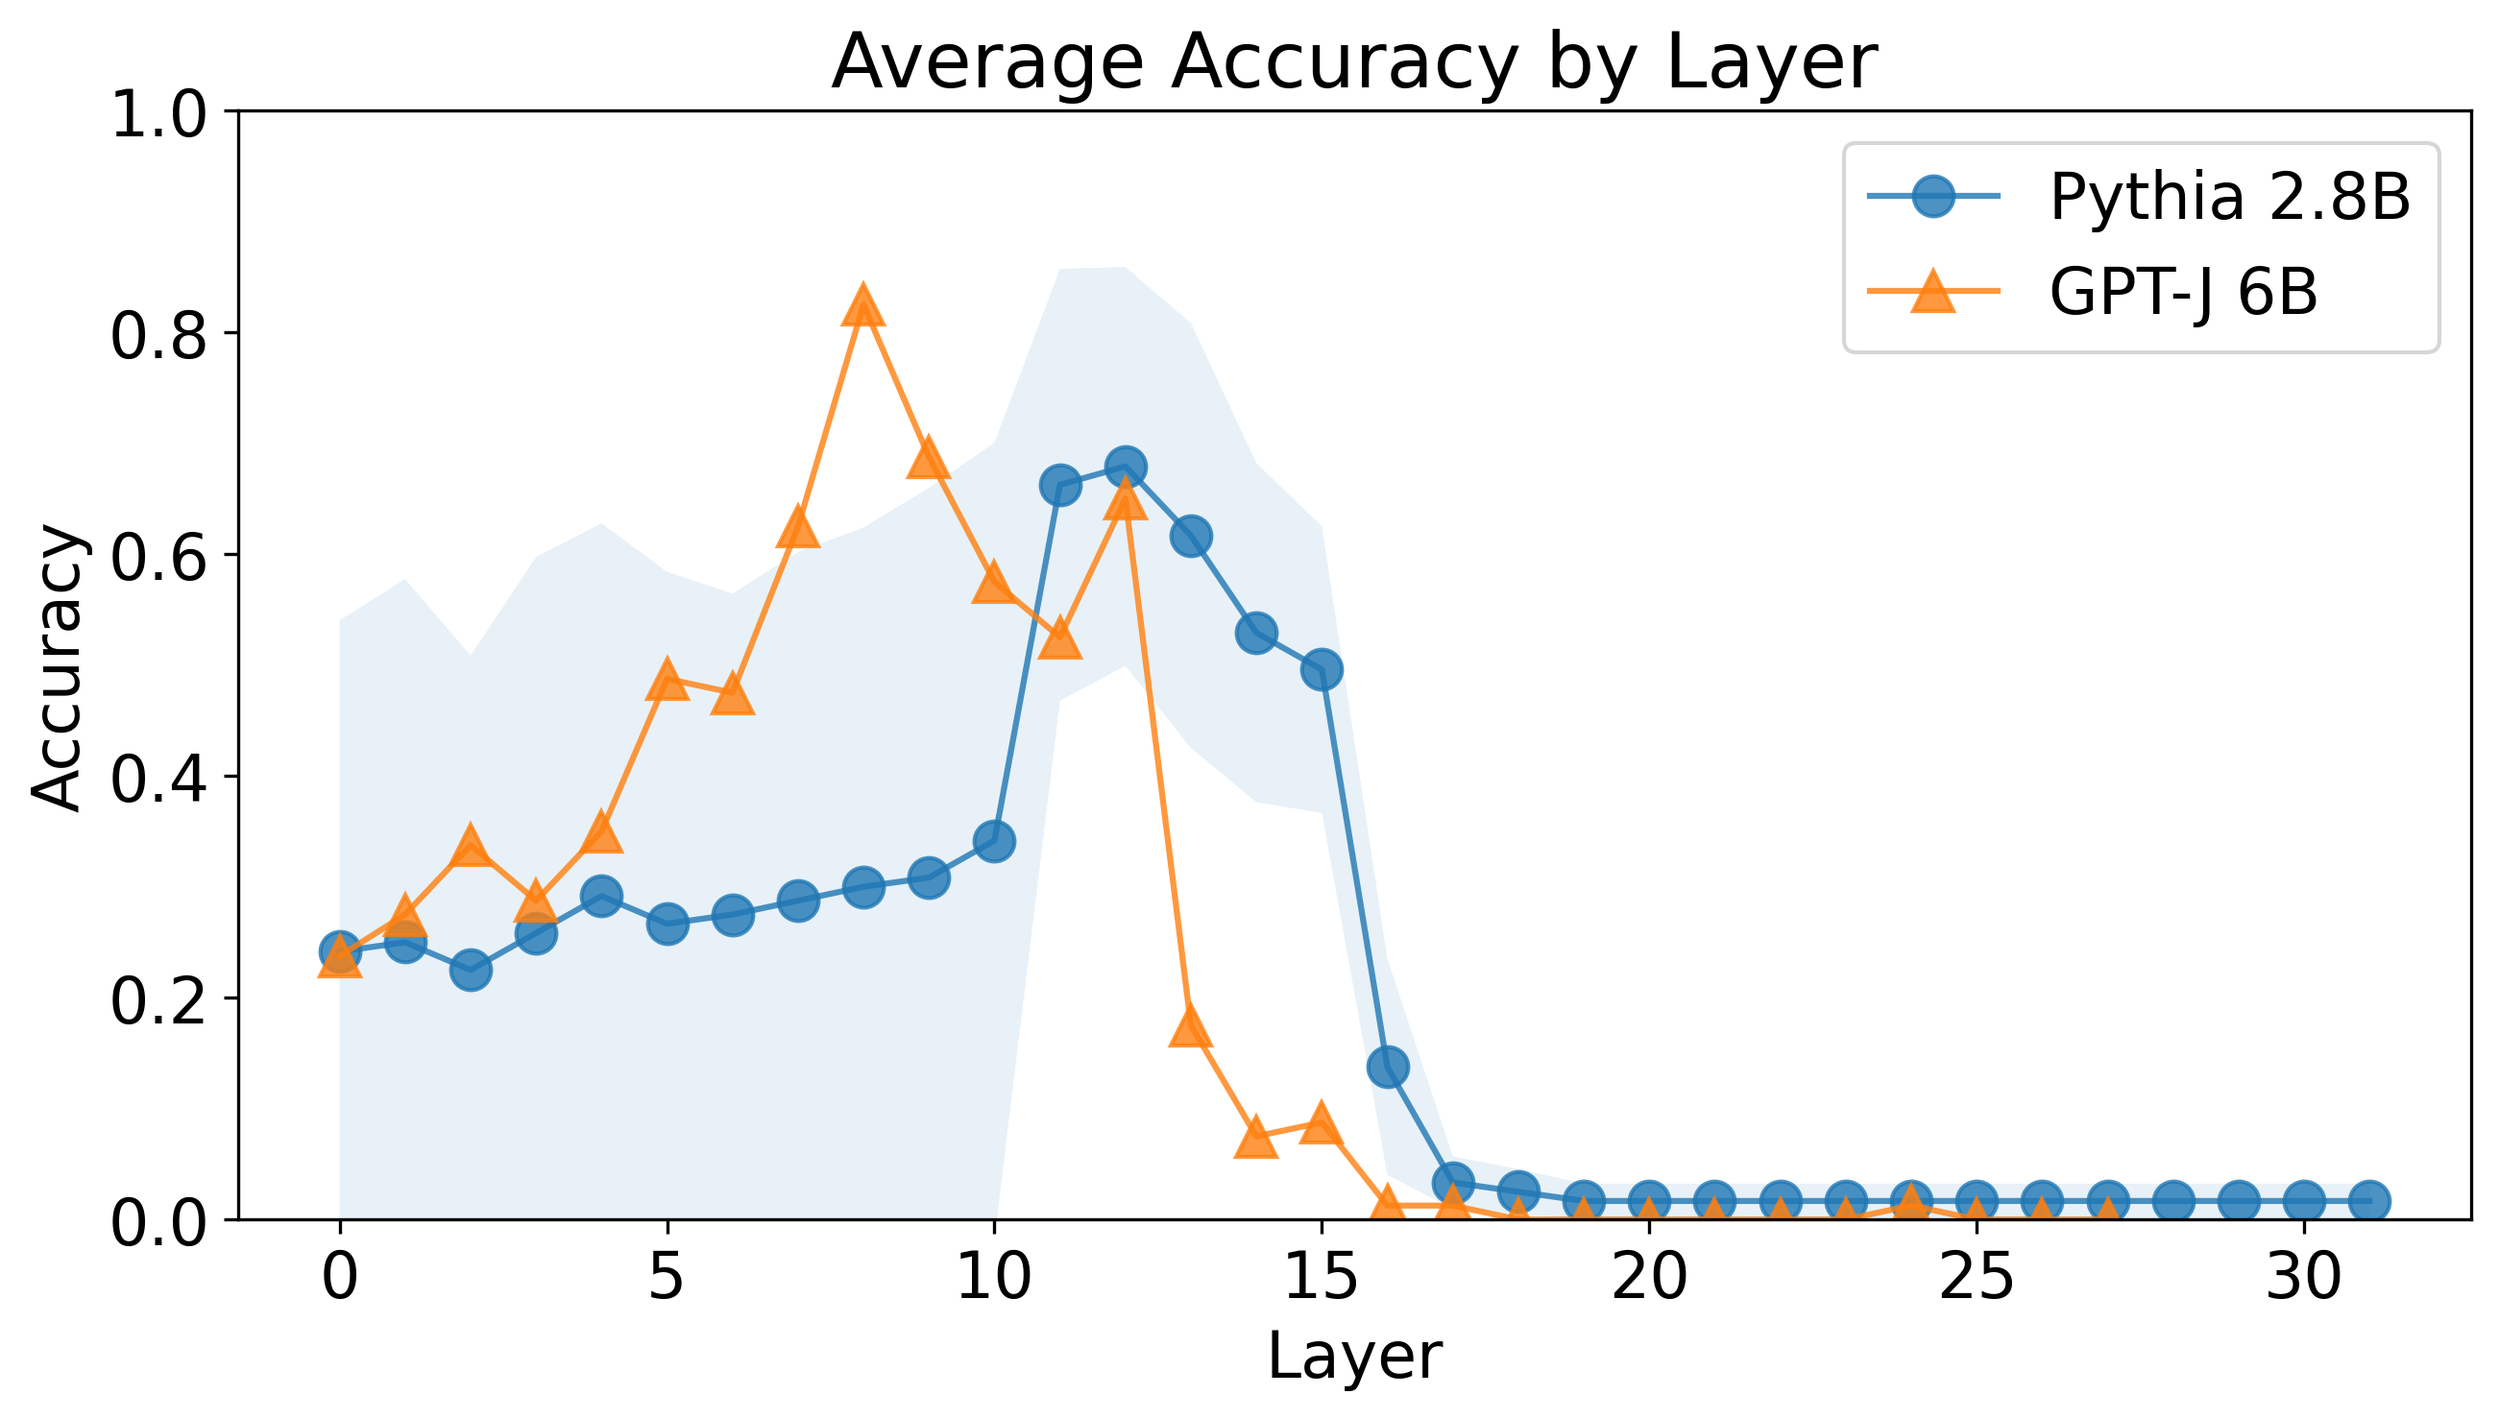
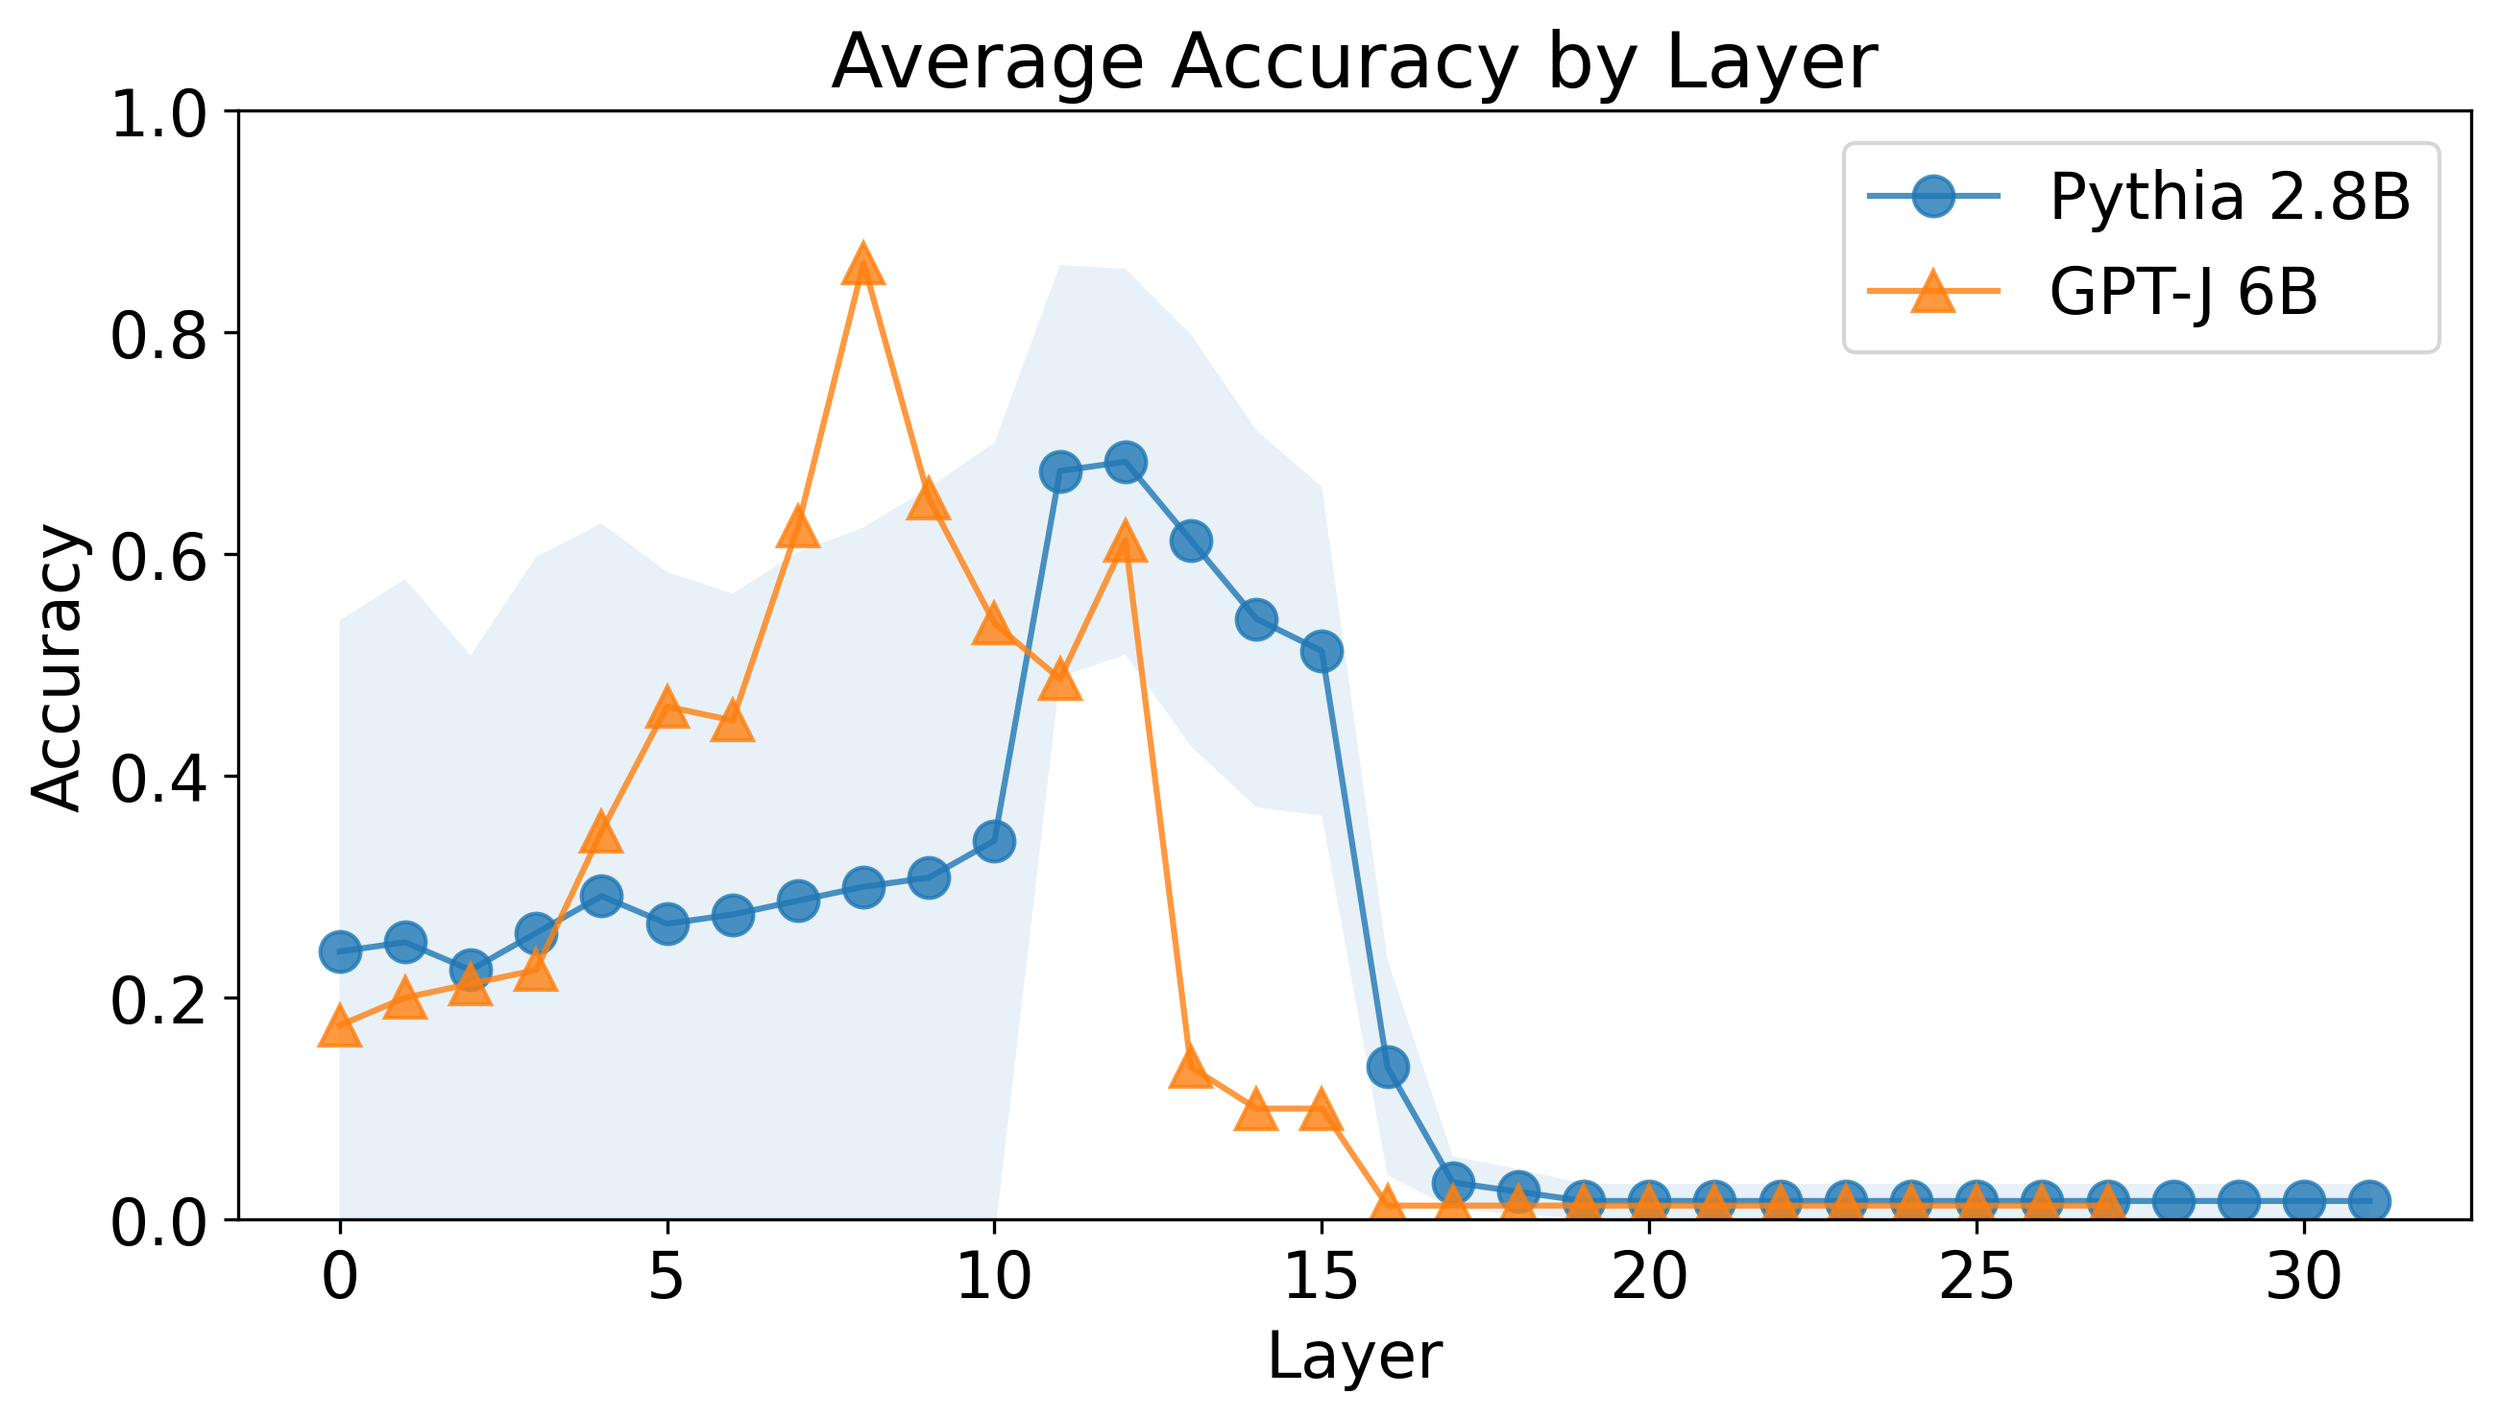
layer+1

diff --git a/outputs/figures/main_experiment_results_table.tex b/outputs/figures/main_experiment_results_table.tex
@@ -19,49 +19,49 @@ Model & Task type & Task name &  &  &  &  &  &  &  &  &  &  &  &  &  \\
 \midrule
     \endhead
     
-\multirow[t]{18}{*}{GPT-J 6B} & \multirow[t]{6}{*}{Algorithmic} & List first & 0.23 & 0.89 & 0.71 & 0.72 & 0.64 & 0.65 & 0.66 & 0.65 & 0.68 & 0.65 & 0.64 & 0.60 & 0.66 \\
- &  & List last & 0.31 & 0.68 & 0.42 & 0.41 & 0.45 & 0.42 & 0.40 & 0.36 & 0.38 & 0.41 & 0.39 & 0.35 & 0.39 \\
- &  & Next letter & 0.20 & 0.70 & 0.76 & 0.81 & 0.84 & 0.81 & 0.86 & 0.84 & 0.78 & 0.82 & 0.86 & 0.82 & 0.79 \\
- &  & Prev letter & 0.06 & 0.00 & 0.15 & 0.15 & 0.16 & 0.14 & 0.11 & 0.12 & 0.16 & 0.17 & 0.17 & 0.11 & 0.16 \\
- &  & To lower & 0.00 & 0.97 & 0.07 & 0.06 & 0.07 & 0.06 & 0.09 & 0.06 & 0.09 & 0.04 & 0.12 & 0.04 & 0.09 \\
- &  & To upper & 0.00 & 0.99 & 0.15 & 0.17 & 0.15 & 0.15 & 0.29 & 0.17 & 0.17 & 0.23 & 0.26 & 0.17 & 0.24 \\
+\multirow[t]{18}{*}{GPT-J 6B} & \multirow[t]{6}{*}{Algorithmic} & List first & 0.23 & 0.89 & 0.71 & 0.66 & 0.61 & 0.64 & 0.64 & 0.66 & 0.62 & 0.68 & 0.66 & 0.65 & 0.62 \\
+ &  & List last & 0.31 & 0.68 & 0.42 & 0.45 & 0.45 & 0.46 & 0.34 & 0.42 & 0.41 & 0.34 & 0.39 & 0.39 & 0.40 \\
+ &  & Next letter & 0.19 & 0.75 & 0.84 & 0.90 & 0.93 & 0.90 & 0.91 & 0.91 & 0.88 & 0.85 & 0.88 & 0.89 & 0.89 \\
+ &  & Prev letter & 0.08 & 0.10 & 0.23 & 0.23 & 0.21 & 0.24 & 0.21 & 0.19 & 0.20 & 0.21 & 0.23 & 0.26 & 0.19 \\
+ &  & To lower & 0.00 & 0.90 & 0.06 & 0.05 & 0.04 & 0.03 & 0.01 & 0.07 & 0.06 & 0.03 & 0.03 & 0.05 & 0.01 \\
+ &  & To upper & 0.00 & 1.00 & 0.17 & 0.05 & 0.04 & 0.07 & 0.10 & 0.07 & 0.11 & 0.07 & 0.00 & 0.04 & 0.06 \\
 \cline{2-16}
- & \multirow[t]{4}{*}{Knowledge} & Country capital & 0.10 & 0.47 & 0.49 & 0.49 & 0.54 & 0.50 & 0.51 & 0.42 & 0.51 & 0.49 & 0.54 & 0.51 & 0.46 \\
- &  & Location continent & 0.02 & 0.61 & 0.45 & 0.46 & 0.38 & 0.42 & 0.44 & 0.40 & 0.40 & 0.51 & 0.36 & 0.47 & 0.51 \\
- &  & Location religion & 0.07 & 0.54 & 0.44 & 0.38 & 0.42 & 0.47 & 0.44 & 0.44 & 0.42 & 0.31 & 0.46 & 0.46 & 0.41 \\
- &  & Person language & 0.06 & 0.78 & 0.78 & 0.78 & 0.78 & 0.76 & 0.80 & 0.75 & 0.78 & 0.81 & 0.78 & 0.80 & 0.74 \\
+ & \multirow[t]{4}{*}{Knowledge} & Country capital & 0.17 & 0.59 & 0.50 & 0.49 & 0.45 & 0.42 & 0.45 & 0.46 & 0.45 & 0.49 & 0.41 & 0.39 & 0.46 \\
+ &  & Location continent & 0.01 & 0.57 & 0.42 & 0.40 & 0.35 & 0.42 & 0.49 & 0.45 & 0.35 & 0.46 & 0.40 & 0.47 & 0.41 \\
+ &  & Location religion & 0.11 & 0.62 & 0.41 & 0.42 & 0.47 & 0.46 & 0.42 & 0.42 & 0.53 & 0.41 & 0.46 & 0.46 & 0.50 \\
+ &  & Person language & 0.00 & 0.75 & 0.68 & 0.66 & 0.71 & 0.70 & 0.69 & 0.68 & 0.66 & 0.68 & 0.68 & 0.68 & 0.66 \\
 \cline{2-16}
- & \multirow[t]{4}{*}{Linguistic} & Antonyms & 0.33 & 0.60 & 0.59 & 0.59 & 0.53 & 0.53 & 0.57 & 0.56 & 0.54 & 0.57 & 0.53 & 0.56 & 0.54 \\
- &  & Plural singular & 0.05 & 0.71 & 0.66 & 0.65 & 0.65 & 0.53 & 0.57 & 0.60 & 0.59 & 0.66 & 0.68 & 0.60 & 0.62 \\
- &  & Present simple gerund & 0.00 & 0.54 & 0.41 & 0.46 & 0.49 & 0.50 & 0.47 & 0.46 & 0.56 & 0.54 & 0.55 & 0.54 & 0.44 \\
- &  & Present simple past simple & 0.02 & 0.65 & 0.60 & 0.68 & 0.61 & 0.65 & 0.64 & 0.62 & 0.65 & 0.69 & 0.65 & 0.59 & 0.71 \\
+ & \multirow[t]{4}{*}{Linguistic} & Antonyms & 0.33 & 0.70 & 0.59 & 0.62 & 0.56 & 0.64 & 0.57 & 0.60 & 0.64 & 0.60 & 0.66 & 0.64 & 0.64 \\
+ &  & Plural singular & 0.03 & 0.62 & 0.60 & 0.53 & 0.61 & 0.59 & 0.61 & 0.55 & 0.59 & 0.53 & 0.64 & 0.44 & 0.64 \\
+ &  & Present simple gerund & 0.00 & 0.50 & 0.45 & 0.53 & 0.46 & 0.57 & 0.41 & 0.44 & 0.45 & 0.46 & 0.47 & 0.50 & 0.41 \\
+ &  & Present simple past simple & 0.00 & 0.50 & 0.54 & 0.60 & 0.42 & 0.50 & 0.45 & 0.55 & 0.57 & 0.65 & 0.53 & 0.56 & 0.49 \\
 \cline{2-16}
- & \multirow[t]{4}{*}{Translation} & En es & 0.19 & 0.26 & 0.31 & 0.33 & 0.34 & 0.36 & 0.36 & 0.34 & 0.33 & 0.31 & 0.34 & 0.36 & 0.35 \\
- &  & En fr & 0.15 & 0.23 & 0.28 & 0.24 & 0.26 & 0.30 & 0.23 & 0.28 & 0.29 & 0.30 & 0.29 & 0.28 & 0.28 \\
- &  & Es en & 0.07 & 0.57 & 0.46 & 0.50 & 0.51 & 0.47 & 0.53 & 0.41 & 0.54 & 0.49 & 0.40 & 0.45 & 0.39 \\
- &  & Fr en & 0.09 & 0.54 & 0.50 & 0.49 & 0.47 & 0.50 & 0.39 & 0.44 & 0.49 & 0.42 & 0.44 & 0.54 & 0.49 \\
+ & \multirow[t]{4}{*}{Translation} & En es & 0.25 & 0.36 & 0.40 & 0.41 & 0.42 & 0.36 & 0.42 & 0.41 & 0.38 & 0.39 & 0.39 & 0.42 & 0.41 \\
+ &  & En fr & 0.23 & 0.28 & 0.40 & 0.36 & 0.34 & 0.39 & 0.36 & 0.40 & 0.39 & 0.36 & 0.41 & 0.40 & 0.38 \\
+ &  & Es en & 0.06 & 0.65 & 0.54 & 0.45 & 0.47 & 0.51 & 0.45 & 0.47 & 0.49 & 0.45 & 0.42 & 0.53 & 0.55 \\
+ &  & Fr en & 0.10 & 0.50 & 0.39 & 0.39 & 0.40 & 0.40 & 0.41 & 0.39 & 0.46 & 0.38 & 0.40 & 0.39 & 0.42 \\
 \cline{1-16} \cline{2-16}
-\multirow[t]{18}{*}{Pythia 2.8B} & \multirow[t]{6}{*}{Algorithmic} & List first & 0.65 & 0.95 & 0.95 & 0.90 & 0.93 & 0.94 & 0.93 & 0.94 & 0.94 & 0.91 & 0.90 & 0.91 & 0.96 \\
- &  & List last & 0.02 & 0.84 & 0.82 & 0.79 & 0.75 & 0.81 & 0.80 & 0.75 & 0.75 & 0.70 & 0.72 & 0.74 & 0.86 \\
- &  & Next letter & 0.41 & 0.62 & 0.57 & 0.62 & 0.61 & 0.61 & 0.68 & 0.65 & 0.60 & 0.62 & 0.65 & 0.64 & 0.60 \\
- &  & Prev letter & 0.05 & 0.00 & 0.06 & 0.06 & 0.06 & 0.05 & 0.06 & 0.06 & 0.06 & 0.06 & 0.05 & 0.05 & 0.05 \\
- &  & To lower & 0.00 & 0.70 & 0.44 & 0.38 & 0.46 & 0.47 & 0.30 & 0.42 & 0.45 & 0.36 & 0.46 & 0.38 & 0.44 \\
- &  & To upper & 0.00 & 0.99 & 0.90 & 0.89 & 0.88 & 0.91 & 0.90 & 0.95 & 0.88 & 0.96 & 0.93 & 0.91 & 0.94 \\
+\multirow[t]{18}{*}{Pythia 2.8B} & \multirow[t]{6}{*}{Algorithmic} & List first & 0.65 & 0.95 & 0.95 & 0.93 & 0.91 & 0.91 & 0.94 & 0.91 & 0.94 & 0.89 & 0.89 & 0.93 & 0.93 \\
+ &  & List last & 0.02 & 0.84 & 0.82 & 0.74 & 0.81 & 0.82 & 0.75 & 0.79 & 0.71 & 0.74 & 0.71 & 0.85 & 0.79 \\
+ &  & Next letter & 0.53 & 0.71 & 0.68 & 0.70 & 0.71 & 0.66 & 0.76 & 0.71 & 0.68 & 0.66 & 0.69 & 0.70 & 0.72 \\
+ &  & Prev letter & 0.00 & 0.06 & 0.10 & 0.09 & 0.11 & 0.11 & 0.09 & 0.07 & 0.10 & 0.09 & 0.10 & 0.10 & 0.10 \\
+ &  & To lower & 0.00 & 0.79 & 0.53 & 0.40 & 0.50 & 0.56 & 0.55 & 0.41 & 0.44 & 0.44 & 0.50 & 0.57 & 0.42 \\
+ &  & To upper & 0.00 & 0.99 & 0.86 & 0.91 & 0.90 & 0.97 & 0.91 & 0.99 & 0.90 & 0.94 & 0.94 & 0.86 & 0.94 \\
 \cline{2-16}
- & \multirow[t]{4}{*}{Knowledge} & Country capital & 0.11 & 0.53 & 0.49 & 0.44 & 0.49 & 0.45 & 0.47 & 0.40 & 0.51 & 0.46 & 0.50 & 0.53 & 0.47 \\
- &  & Location continent & 0.02 & 0.57 & 0.49 & 0.44 & 0.46 & 0.47 & 0.50 & 0.47 & 0.47 & 0.50 & 0.45 & 0.47 & 0.47 \\
- &  & Location religion & 0.05 & 0.34 & 0.33 & 0.38 & 0.38 & 0.40 & 0.42 & 0.41 & 0.45 & 0.39 & 0.41 & 0.39 & 0.44 \\
- &  & Person language & 0.03 & 0.65 & 0.66 & 0.65 & 0.51 & 0.55 & 0.61 & 0.59 & 0.57 & 0.56 & 0.59 & 0.57 & 0.56 \\
+ & \multirow[t]{4}{*}{Knowledge} & Country capital & 0.14 & 0.44 & 0.53 & 0.49 & 0.44 & 0.47 & 0.47 & 0.46 & 0.42 & 0.51 & 0.49 & 0.41 & 0.47 \\
+ &  & Location continent & 0.01 & 0.55 & 0.42 & 0.47 & 0.47 & 0.44 & 0.57 & 0.54 & 0.39 & 0.56 & 0.46 & 0.51 & 0.50 \\
+ &  & Location religion & 0.12 & 0.40 & 0.31 & 0.38 & 0.41 & 0.38 & 0.34 & 0.34 & 0.41 & 0.29 & 0.36 & 0.33 & 0.36 \\
+ &  & Person language & 0.00 & 0.55 & 0.57 & 0.64 & 0.56 & 0.53 & 0.59 & 0.50 & 0.56 & 0.57 & 0.56 & 0.54 & 0.50 \\
 \cline{2-16}
- & \multirow[t]{4}{*}{Linguistic} & Antonyms & 0.40 & 0.44 & 0.36 & 0.36 & 0.38 & 0.36 & 0.36 & 0.35 & 0.40 & 0.38 & 0.40 & 0.38 & 0.39 \\
- &  & Plural singular & 0.07 & 0.45 & 0.46 & 0.47 & 0.47 & 0.53 & 0.51 & 0.51 & 0.56 & 0.45 & 0.42 & 0.60 & 0.53 \\
- &  & Present simple gerund & 0.00 & 0.57 & 0.42 & 0.42 & 0.34 & 0.39 & 0.44 & 0.44 & 0.41 & 0.34 & 0.39 & 0.34 & 0.36 \\
- &  & Present simple past simple & 0.01 & 0.64 & 0.57 & 0.57 & 0.59 & 0.56 & 0.56 & 0.51 & 0.54 & 0.57 & 0.57 & 0.56 & 0.56 \\
+ & \multirow[t]{4}{*}{Linguistic} & Antonyms & 0.44 & 0.59 & 0.55 & 0.53 & 0.46 & 0.55 & 0.46 & 0.49 & 0.51 & 0.50 & 0.47 & 0.49 & 0.51 \\
+ &  & Plural singular & 0.06 & 0.56 & 0.54 & 0.47 & 0.59 & 0.54 & 0.51 & 0.57 & 0.50 & 0.51 & 0.51 & 0.45 & 0.50 \\
+ &  & Present simple gerund & 0.00 & 0.61 & 0.36 & 0.31 & 0.34 & 0.31 & 0.39 & 0.35 & 0.33 & 0.34 & 0.30 & 0.39 & 0.30 \\
+ &  & Present simple past simple & 0.02 & 0.68 & 0.55 & 0.59 & 0.65 & 0.61 & 0.59 & 0.54 & 0.61 & 0.54 & 0.47 & 0.57 & 0.60 \\
 \cline{2-16}
- & \multirow[t]{4}{*}{Translation} & En es & 0.07 & 0.31 & 0.26 & 0.25 & 0.26 & 0.28 & 0.26 & 0.28 & 0.28 & 0.28 & 0.28 & 0.28 & 0.28 \\
- &  & En fr & 0.15 & 0.30 & 0.29 & 0.33 & 0.30 & 0.30 & 0.33 & 0.30 & 0.34 & 0.31 & 0.34 & 0.29 & 0.31 \\
- &  & Es en & 0.11 & 0.54 & 0.39 & 0.46 & 0.39 & 0.51 & 0.49 & 0.45 & 0.45 & 0.46 & 0.50 & 0.47 & 0.45 \\
- &  & Fr en & 0.14 & 0.54 & 0.45 & 0.49 & 0.51 & 0.50 & 0.45 & 0.38 & 0.31 & 0.39 & 0.45 & 0.40 & 0.44 \\
+ & \multirow[t]{4}{*}{Translation} & En es & 0.06 & 0.34 & 0.26 & 0.26 & 0.28 & 0.29 & 0.28 & 0.29 & 0.25 & 0.28 & 0.25 & 0.26 & 0.26 \\
+ &  & En fr & 0.15 & 0.35 & 0.33 & 0.33 & 0.29 & 0.30 & 0.33 & 0.31 & 0.33 & 0.26 & 0.33 & 0.31 & 0.34 \\
+ &  & Es en & 0.10 & 0.57 & 0.39 & 0.35 & 0.35 & 0.34 & 0.31 & 0.33 & 0.33 & 0.28 & 0.34 & 0.33 & 0.31 \\
+ &  & Fr en & 0.21 & 0.54 & 0.35 & 0.39 & 0.40 & 0.40 & 0.30 & 0.36 & 0.40 & 0.42 & 0.46 & 0.41 & 0.45 \\
 \cline{1-16} \cline{2-16}
 \bottomrule
 \end{longtable}

diff --git a/outputs/figures/top_tokens_table.tex b/outputs/figures/top_tokens_table.tex
@@ -2,15 +2,15 @@
 \toprule
  &  & 0 \\
 \midrule
-\multirow[t]{4}{*}{pythia_2.8B} & algorithmic_prev_letter & pril, ndef, ibase, amsfonts, amsbsy, aeda, OOST, Syrac, lemn, tocol, omitempty, amssymb, BytePtrFromString, erl, obuf, advertis, answ, errnoErr, ODULE, isel \\
- & translation_fr_en & PLIED, OOST, ovember, CURI, REEK, Accessor, fileID, THEORY, RAF, plural, HECK, prehens, aturday, perty, SAME, PARTICULAR, aeda, qc, omitempty, eft \\
- & linguistic_present_simple_gerund & PLIED, RAF, Accessor, ovember, OOST, perty, YING, CURI, AtA, fileID, CLUDING, rapeutics, HECK, aturday, tact, qc, SEQU, noc, kees, tomat \\
- & knowledge_country_capital & thous, answ, CURI, HECK, OOST, RAF, advertis, uncert, establ, orche, satell, REEK, strugg, STRICT, tomat, assertEquals, fileID, congression, empre, SAME \\
+\multirow[t]{4}{*}{pythia_2.8B} & algorithmic_prev_letter & pril, ndef, ibase, amsfonts, Syrac, amsbsy, tocol, aeda, amssymb, erl, BytePtrFromString, lemn, OOST, advertis, obuf, answ, debted, omitempty, errnoErr, isel \\
+ & translation_fr_en & PLIED, OOST, CURI, ovember, Accessor, THEORY, plural, fileID, RAF, REEK, aturday, HECK, PARTICULAR, perty, SAME, prehens, qc, NRAS, SEQU, noc \\
+ & linguistic_present_simple_gerund & PLIED, RAF, prehens, Accessor, fileID, SAME, gree, cknowled, YING, CLUDING, OOST, ACP, REEK, CHANT, FromString, uh, turning, ovember, rans, measurement \\
+ & knowledge_country_capital & thous, answ, CURI, HECK, advertis, establ, uncert, orche, OOST, laug, satell, NaN, clust, acknow, infin, POSE, congression, RAF, assertEquals, strugg \\
 \cline{1-3}
-\multirow[t]{4}{*}{gpt-j_6B} & algorithmic_prev_letter & name, v, id, s, is, value, next, m, test, es, n, g, x, world, d, c, ms, a, related, open \\
- & translation_fr_en & more, s, per, is, related, world, new, the, user, d, name, active, next, get, search, time, m, all, main, c \\
- & linguistic_present_simple_gerund & active, using, world, s, related, being, getting, per, playing, user, the, d, is, life, learning, more, something, living, repl, movement \\
- & knowledge_country_capital & London, West, South, Germany, Northern, Eastern, East, Berlin, New, Paris, North, United, Spain, Mexico, Tokyo, California, City, The, Republic, Philadelphia \\
+\multirow[t]{4}{*}{gpt-j_6B} & algorithmic_prev_letter & name, is, v, world, next, g, s, id, m, ro, c, os, us, test, set, es, red, the, another, a \\
+ & translation_fr_en & world, s, next, is, name, car, related, d, per, heart, the, get, more, user, item, search, active, re, all, n \\
+ & linguistic_present_simple_gerund & active, using, world, being, related, s, getting, per, playing, d, the, user, something, life, is, going, more, learning, repl, talking \\
+ & knowledge_country_capital & West, London, South, Northern, East, Eastern, Germany, New, Berlin, Paris, North, The, Tokyo, city, San, Philadelphia, United, Jerusalem, Republic, southern \\
 \cline{1-3}
 \bottomrule
 \end{tabular}

diff --git a/core/task_vectors.py b/core/task_vectors.py
@@ -260,7 +260,7 @@ def stack_get_single_context_task_hiddens(
     # Stack hidden states
     if isinstance(prev_intermediate_layer, int):
         prev_intermediate_layer = torch.tensor(prev_intermediate_layer).repeat(len(inputs["input_ids"]))
-    injection_positions = 0 * torch.ones_like(prev_intermediate_layer, dtype=torch.long)  # -1
+    injection_positions = -1 * torch.ones_like(prev_intermediate_layer, dtype=torch.long)  # -1
     prev_hiddens = prev_hiddens[torch.arange(len(prev_intermediate_layer)), prev_intermediate_layer]
 
     forward_modifiers = [

diff --git a/scripts/figures/main.py b/scripts/figures/main.py
@@ -309,5 +309,5 @@ def create_all_figures(experiment_id: str):
 
 
 if __name__ == "__main__":
-    experiment_id = "21"
+    experiment_id = "22"
     create_all_figures(experiment_id)
